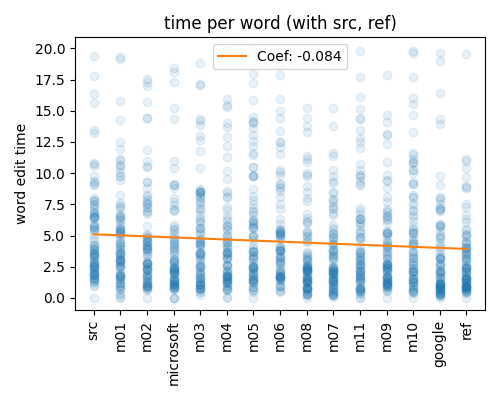
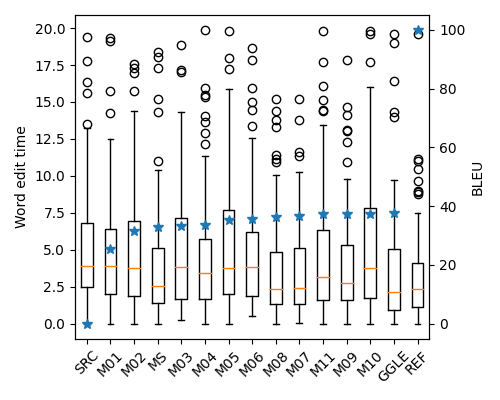
filter x% longest for every MT

diff --git a/src/processing/exp2_models.py b/src/processing/exp2_models.py
@@ -4,65 +4,51 @@ from load import *
 import numpy as np
 import matplotlib.pyplot as plt
 from sklearn.linear_model import LinearRegression
-from utils import MT_BLEU, MAX_WORD_TIME, MAX_SENT_TIME
+from utils import MT_BLEU, MAX_WORD_TIME, MAX_SENT_TIME, pretty_mt_name
+from collections import defaultdict
 
 parser = argparse.ArgumentParser()
-parser.add_argument('-s', '--per-sent', action='store_true')
-parser.add_argument('--micro', action='store_true')
+parser.add_argument('--sent', action='store_true')
 args = parser.parse_args()
 
 data = load_mx()
-PER_SENT = args.per_sent
-MICROAVERAGE = args.micro
+SENT_AVERAGE = args.sent
 
 MT_ORDER = sorted(MT_BLEU.keys(), key=lambda x: MT_BLEU[x][0])
 
 # compute per-model data
 mt_times = {k: [] for k in MT_ORDER}
 for doc in data:
-    if MICROAVERAGE:
-        if PER_SENT:
-            mt_times[doc.mt_name] += [x.edit_time for x in doc.lines if x.edit_time <= MAX_SENT_TIME for _ in x.target.split()]
-        else:
-            mt_times[doc.mt_name] += [x.edit_time_word for x in doc.lines if x.edit_time_word <= MAX_WORD_TIME for _ in x.target.split()]
+    if SENT_AVERAGE:
+        mt_times[doc.mt_name] += [x.edit_time_word for x in doc.lines]
     else:
-        # sentence-level average
-        if PER_SENT:
-            mt_times[doc.mt_name] += [x.edit_time for x in doc.lines if x.edit_time <= MAX_SENT_TIME]
-        else:
-            mt_times[doc.mt_name] += [x.edit_time_word for x in doc.lines if x.edit_time_word <= MAX_WORD_TIME]
+        mt_times[doc.mt_name] += [
+            x.edit_time_word
+            for x in doc.lines for _ in x.source.split()
+            if x.edit_time_word != 0
+        ]
 
-def top_all():
-    # actual value plotting
-    bleu_time = []
-    for i, mt_name in enumerate(mt_times.keys()):
-        bleus = MT_BLEU[mt_name]
-        bleu_time += [(i, v) for v in mt_times[mt_name]]
-
-    xval = [x[0] for x in bleu_time]
-    yval = [x[1] for x in bleu_time]
-
-    # linear fit
-    coef = np.polyfit(xval, yval, 1)
-    poly1d_fn = np.poly1d(coef)
-    plt.plot(xval, yval, 'o', alpha=0.1)
-    plt.plot(xval, poly1d_fn(xval), label=f'Coef: {coef[0]:>6.3f}')
-    plt.xticks(range(len(mt_times.keys())), mt_times.keys(), rotation=90)
-
+for mt_name, mt_vals in mt_times.items():
+    mt_times[mt_name] = sorted(mt_vals, reverse=False)[:int(0.85*len(mt_vals))]
 
 # misc. plot parameters
-plt.figure(figsize=(5, 4))
-top_all()
-plt.legend()
-TITLE = ('time per line ' if PER_SENT else 'time per word ') + '(with src, ref)'
-plt.title(TITLE)
-plt.ylabel('line edit time' if PER_SENT else 'word edit time')
+fig, ax1 = plt.subplots(figsize=(5, 4))
+ax2 = ax1.twinx()
+
+ax1.boxplot(mt_times.values())
+ax2.plot(range(1, len(mt_times.keys())+1),
+         [MT_BLEU[x][0] for x in MT_ORDER], '*', alpha=1, markersize=7)
+ax1.set_xticks(range(1, len(mt_times.keys())+1))
+ax1.set_xticklabels([pretty_mt_name(x) for x in mt_times.keys()], rotation=45)
+
+#plt.title('Time per word')
+ax1.set_ylabel('Word edit time')
+ax2.set_ylabel('BLEU')
 plt.tight_layout()
 plt.show()
 
 
 # print model averages
-print(TITLE)
 print('\n'.join([
     f'{name:>10} {np.average(v):6.2f}'
     for name, v

diff --git a/src/processing/exp1_top.py b/src/processing/exp1_top.py
@@ -7,7 +7,6 @@ from sklearn.linear_model import LinearRegression
 from utils import MT_BLEU, MAX_WORD_TIME, MAX_SENT_TIME
 
 parser = argparse.ArgumentParser()
-parser.add_argument('-s', '--per-sent', action='store_true')
 parser.add_argument('-m', '--mt-only', action='store_true')
 parser.add_argument('-a', '--aggregate-documents', action='store_true')
 args = parser.parse_args()
@@ -15,27 +14,19 @@ args = parser.parse_args()
 data = load_mx()
 SKIP_SRC_REF = args.mt_only
 AGGREGATE_DOCUMENTS = args.aggregate_documents
-PER_SENT = args.per_sent
 
 # compute per-model data
 mt_times = {k: [] for k in sorted(MT_BLEU.keys(), key=lambda x: MT_BLEU[x][0])}
 for doc in data:
     if AGGREGATE_DOCUMENTS:
-        if PER_SENT:
-            doc_time_avg = np.average(
-                [x.edit_time for x in doc.lines if x.edit_time <= MAX_SENT_TIME]
-            )
-            mt_times[doc.mt_name].append(doc_time_avg)
-        else:
-            doc_time_avg = np.average(
-                [x.edit_time_word for x in doc.lines if x.edit_time_word <= MAX_WORD_TIME]
-            )
-            mt_times[doc.mt_name].append(doc_time_avg)
+        # TODO: this is incorrect
+        doc_time_avg = np.average(
+            [x.edit_time_word for x in doc.lines]
+        )
+        mt_times[doc.mt_name].append(doc_time_avg)
     else:
-        if PER_SENT:
-            mt_times[doc.mt_name] += [x.edit_time for x in doc.lines if x.edit_time <= MAX_SENT_TIME]
-        else:
-            mt_times[doc.mt_name] += [x.edit_time_word for x in doc.lines if x.edit_time_word <= MAX_WORD_TIME]
+        # microaverage
+        mt_times[doc.mt_name] += [min(MAX_WORD_TIME, x.edit_time_word) for x in doc.lines for _ in x.source.split()]
 
 
 def top_n(n, points=False):
@@ -55,7 +46,7 @@ def top_n(n, points=False):
     poly1d_fn = np.poly1d(coef)
 
     if points:
-        plt.plot(xval, yval, '.', alpha=0.5)
+        plt.plot(xval, yval, '.', alpha=0.005, markersize=5)
     plt.plot(xval, poly1d_fn(xval), label=f'Top {n:02}, {coef[0]:>6.3f}')
 
 # misc. plot parameters
@@ -66,11 +57,10 @@ top_n(10)
 top_n(8)
 plt.legend()
 plt.title(
-    ('time per line ' if PER_SENT else 'time per word ') +
+    ('time per word ') +
     ('(without src, ref)' if SKIP_SRC_REF else '(with src, ref)')
 )
 plt.xlabel('BLEU')
 perwhat = 'document' if AGGREGATE_DOCUMENTS else 'sentence'
-plt.ylabel(
-    f'average (per {perwhat}) line edit time' if PER_SENT else f'average (per {perwhat}) word edit time')
+plt.ylabel(f'average (per {perwhat}) word edit time')
 plt.show()

diff --git a/src/processing/load.py b/src/processing/load.py
@@ -35,7 +35,7 @@ class MxLine():
         self.edit_time = int(root['trans-unit']['m:editing-stats']['m:editing-time'])/1000
         self.think_time = int(root['trans-unit']['m:editing-stats']['m:thinking-time'])/1000
         
-        tokens = self.provided.split()
+        tokens = self.source.split()
         self.edit_time_word = self.edit_time / len(tokens)
         self.think_time_word = self.think_time / len(tokens)
 

diff --git a/src/processing/utils.py b/src/processing/utils.py
@@ -18,6 +18,15 @@ MT_BLEU = {
     'microsoft': (33.06, 26.30),
 }
 
+def pretty_mt_name(mt):
+    # Online 1, Online 2
+    if mt == 'microsoft':
+        return 'MS'
+    if mt == 'google':
+        return 'GGLE'
+    return mt.upper()
+
+
 MAX_WORD_TIME = 20
 MAX_SENT_TIME = MAX_WORD_TIME*20
 
